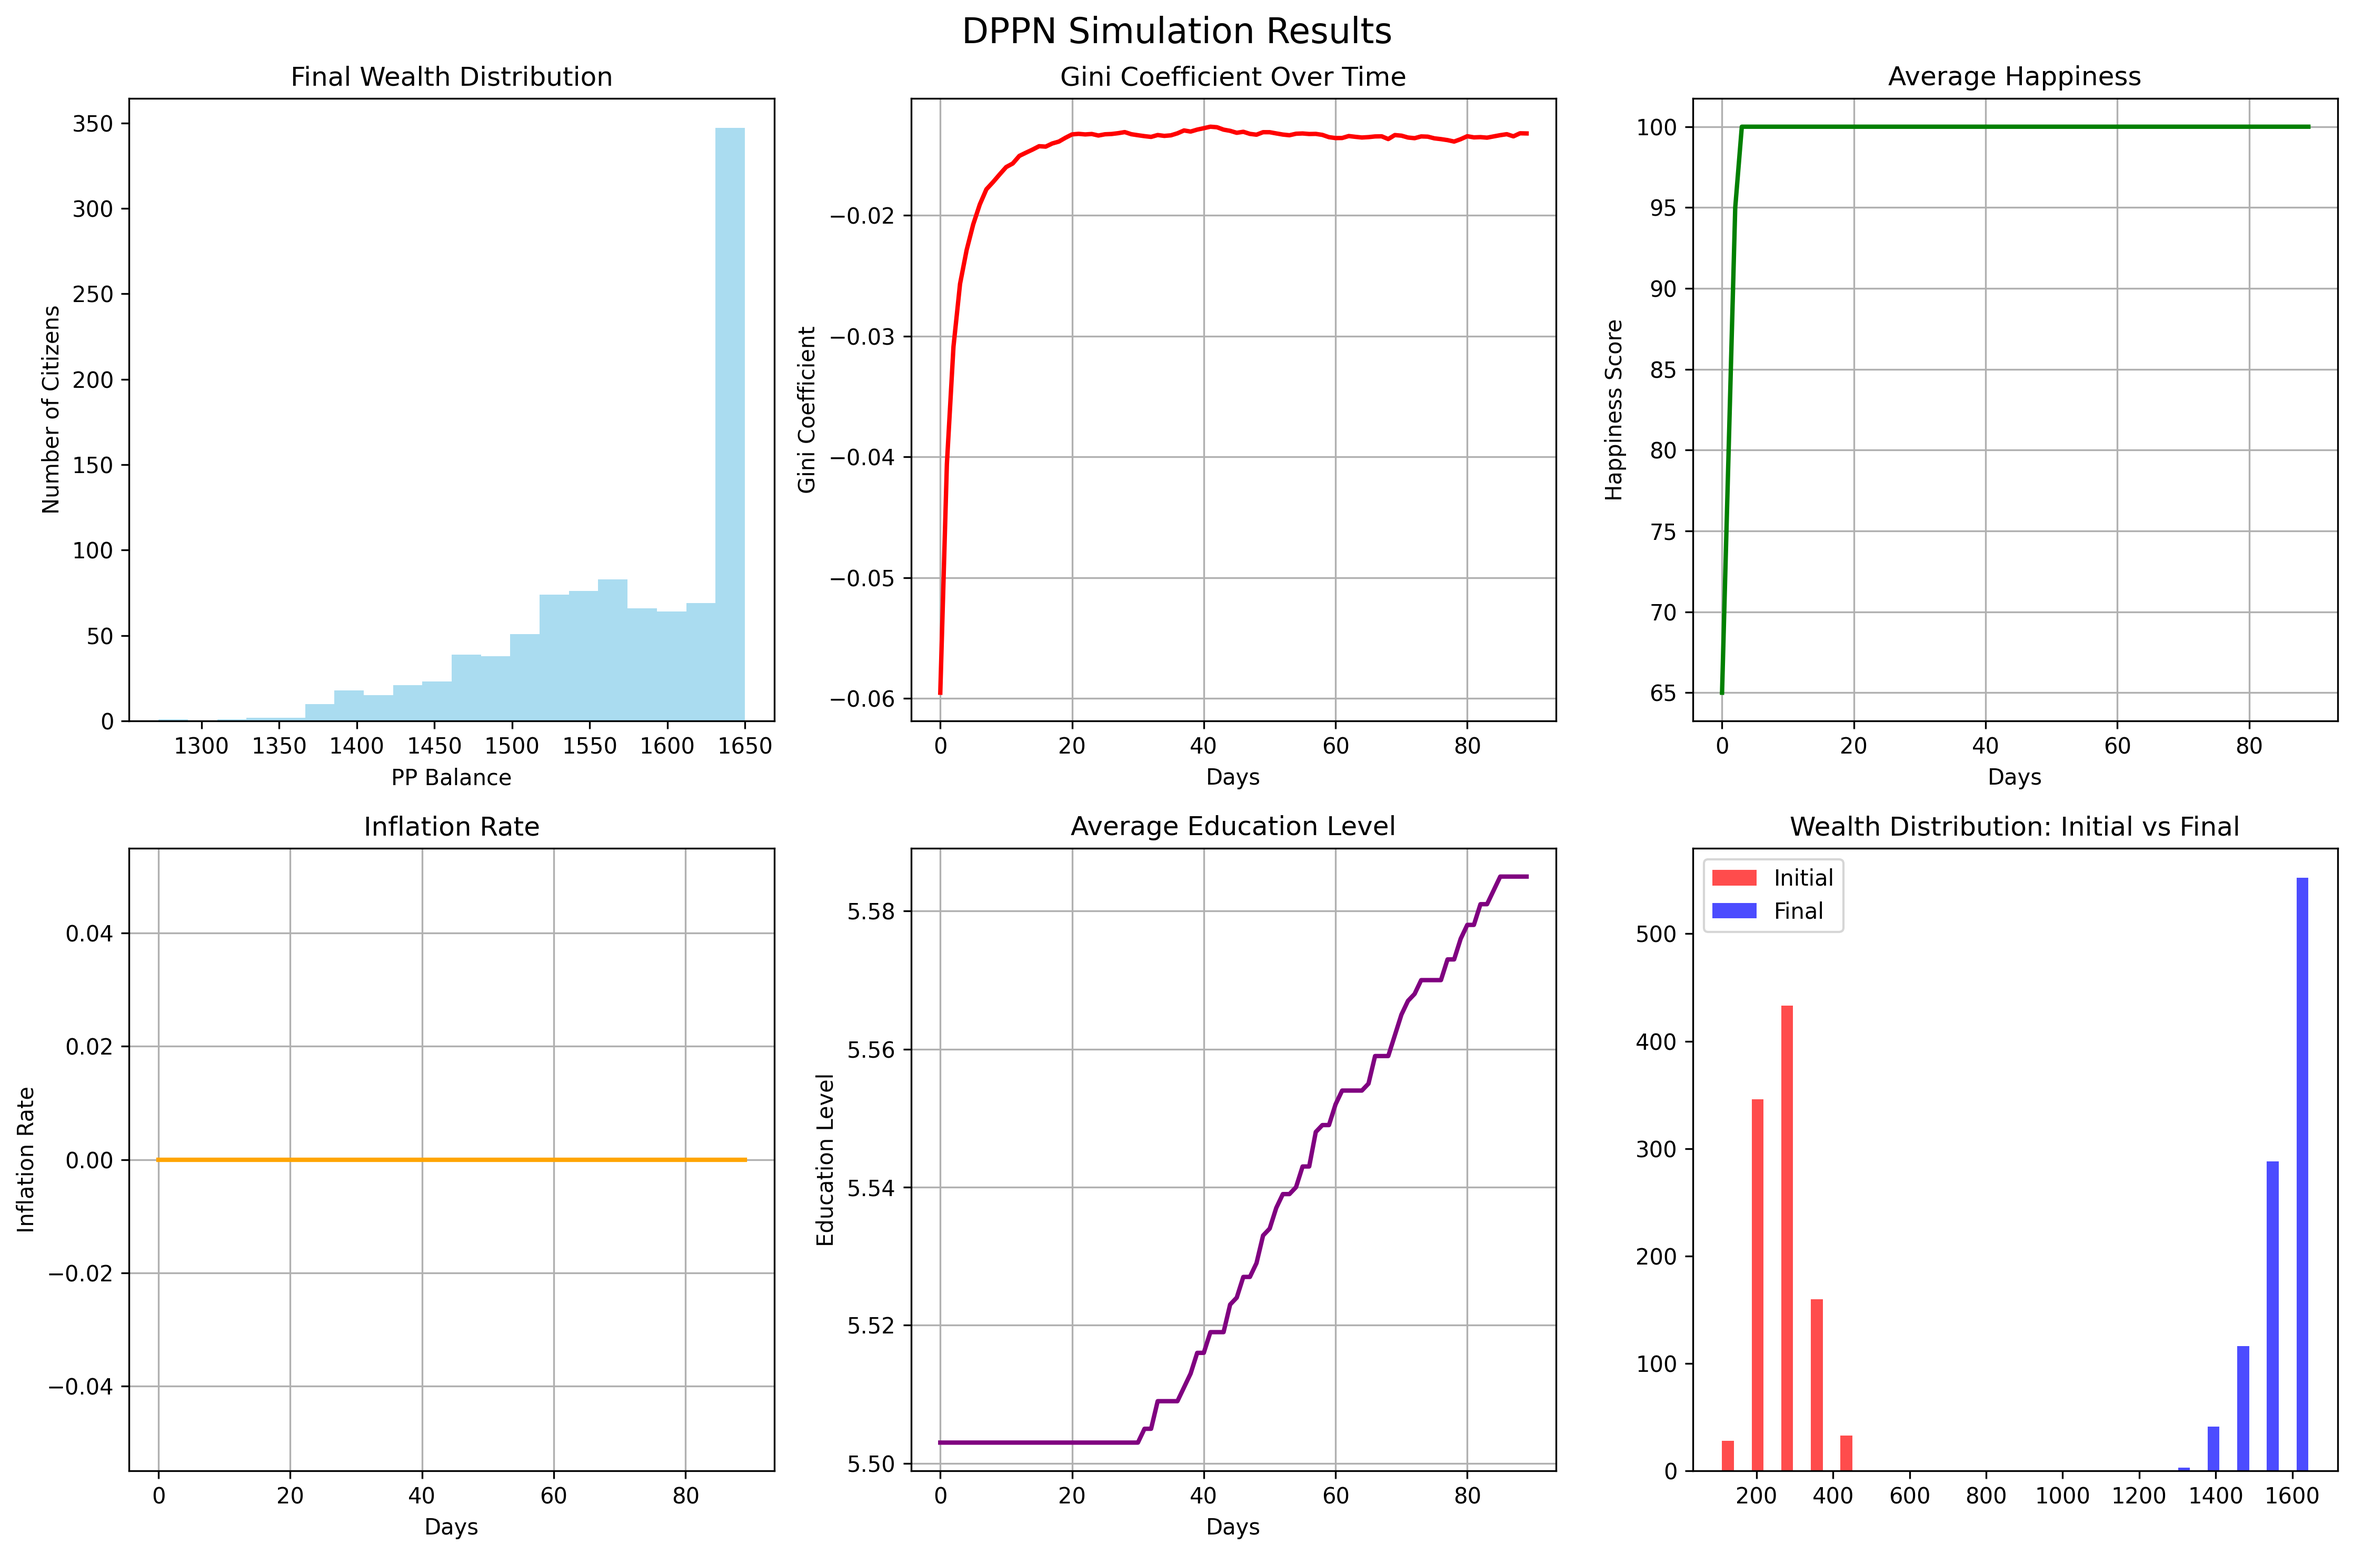
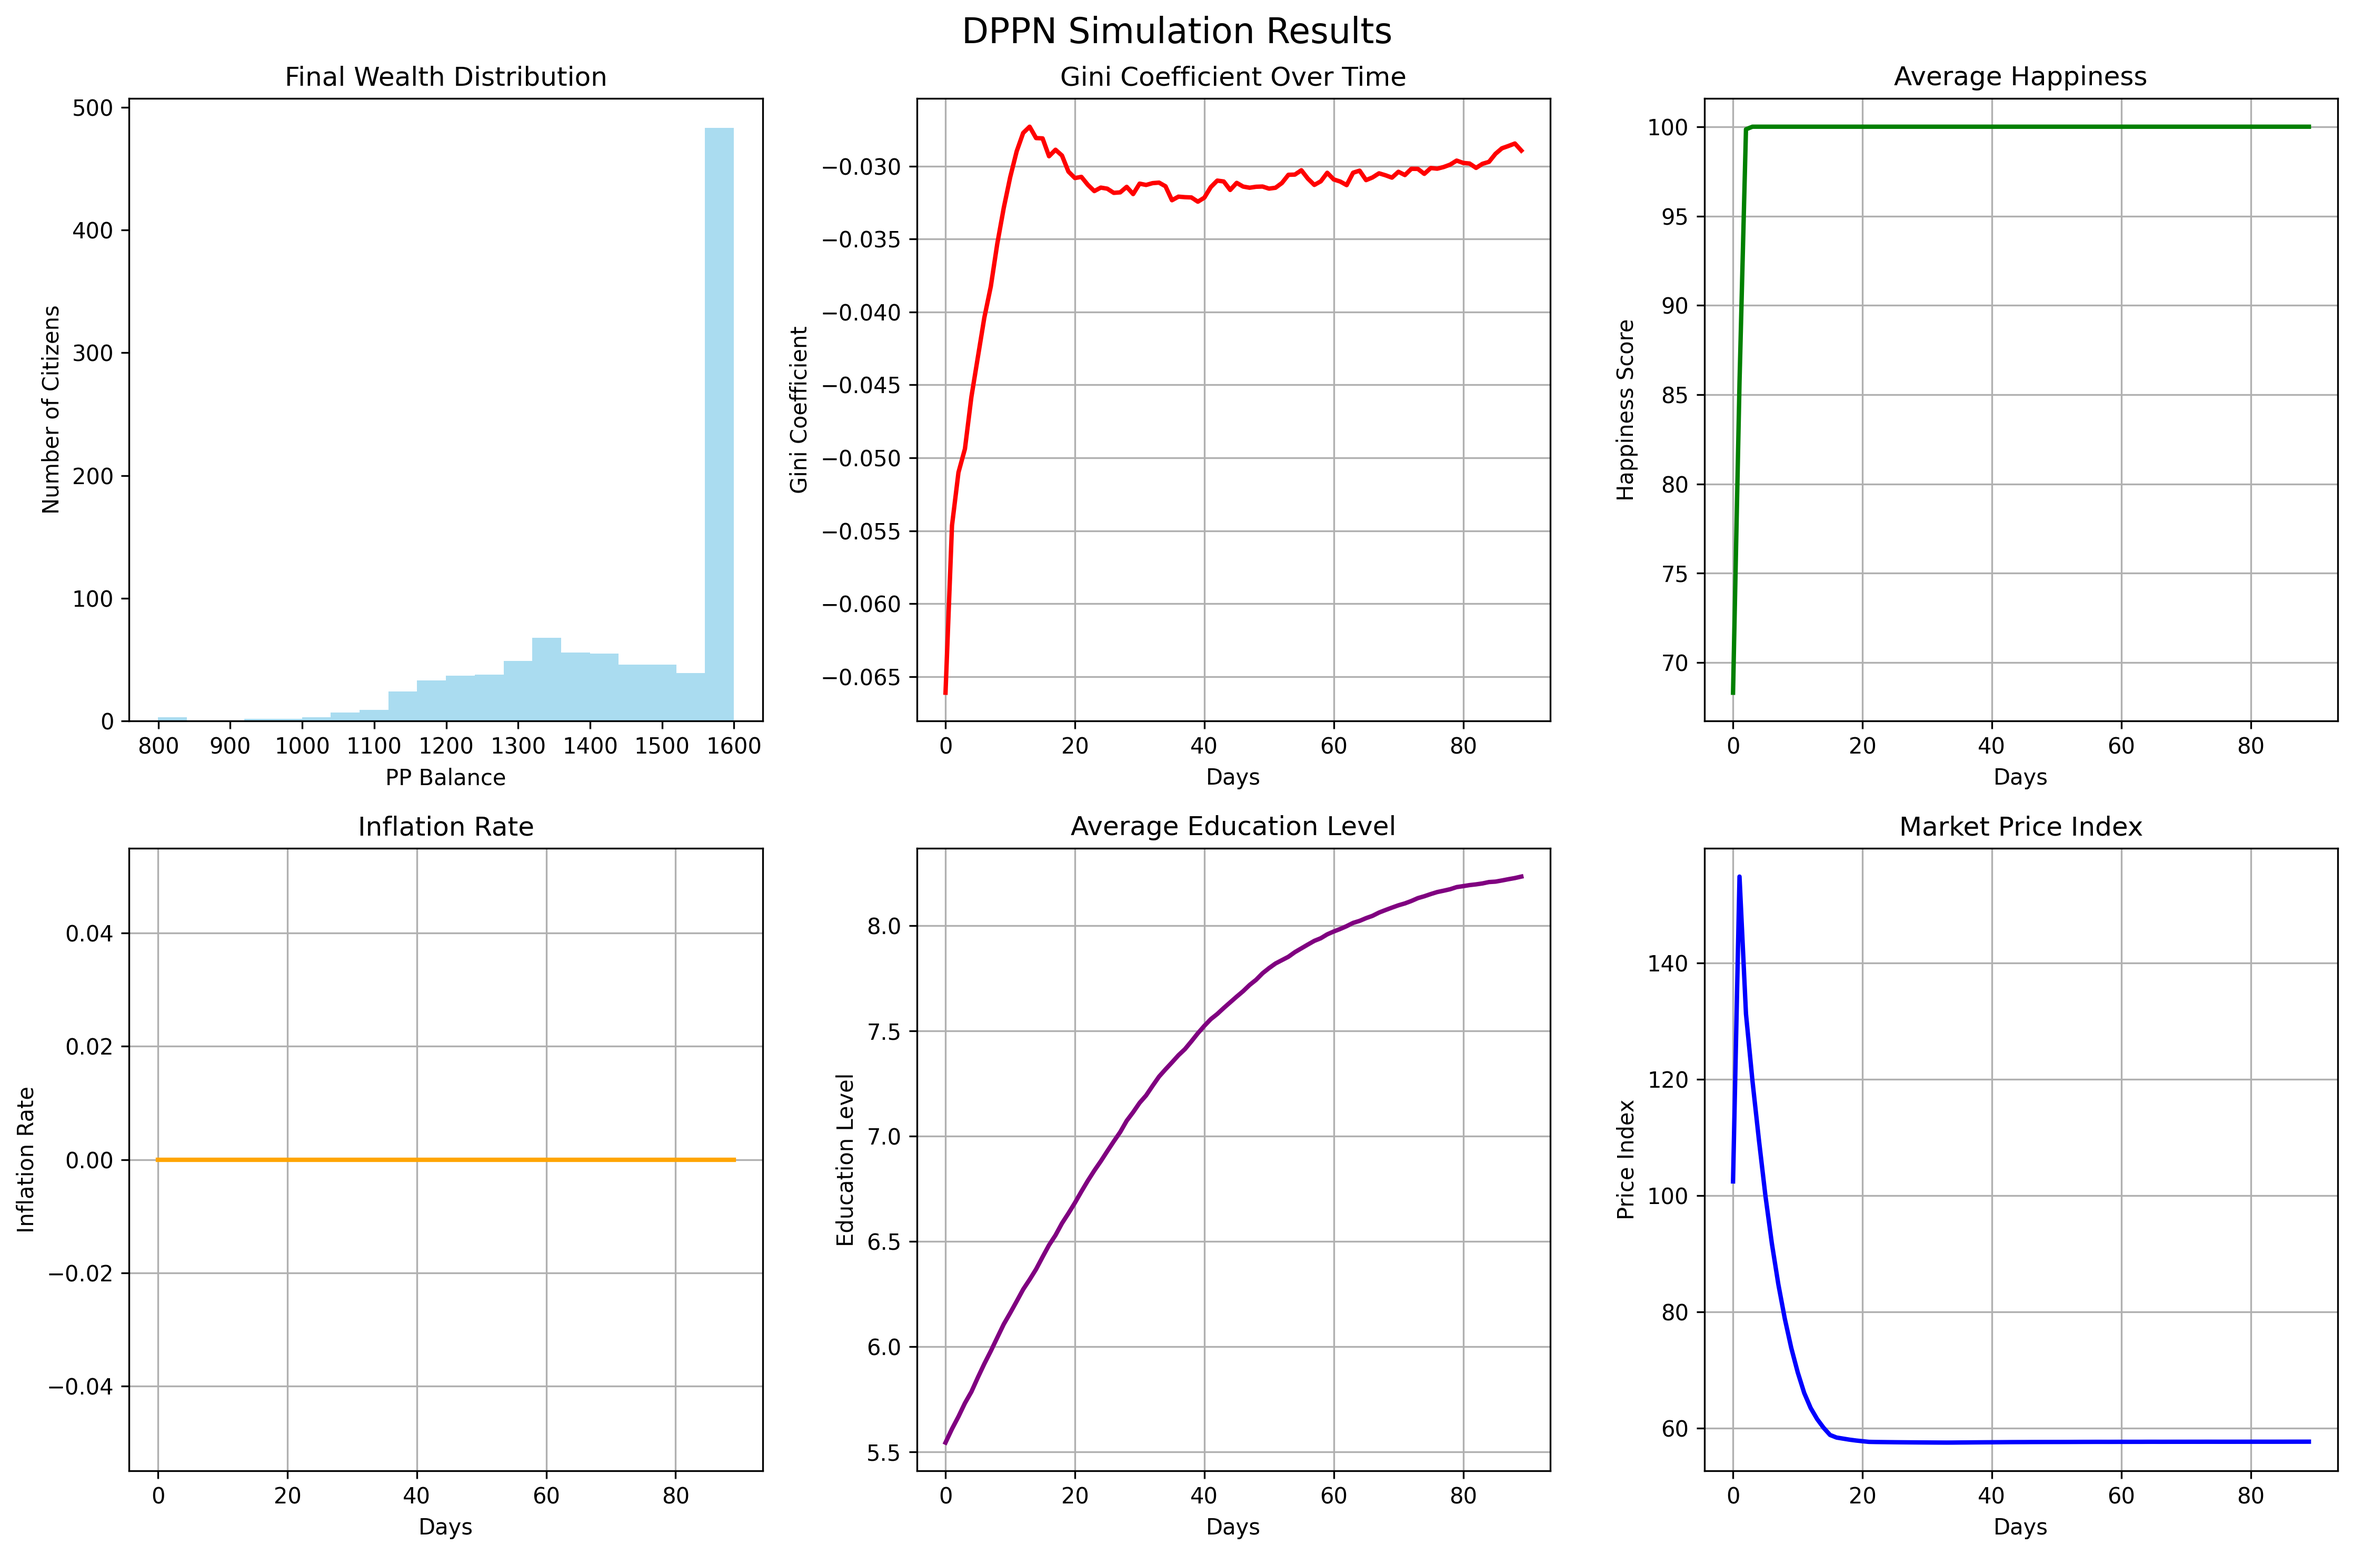
Change dashboard

diff --git a/visualization/dashboard.py b/visualization/dashboard.py
@@ -2,66 +2,112 @@ import matplotlib.pyplot as plt
 import seaborn as sns
 import numpy as np
 
-def create_dashboard(metrics, total_days, market_data=None):
+def create_dashboard(metrics, total_days):
     """Создание визуальной панели результатов"""
     fig, axes = plt.subplots(2, 3, figsize=(15, 10))
     fig.suptitle('DPPN Simulation Results', fontsize=16)
     
-    days = range(total_days)
+    days = range(min(total_days, len(metrics["average_happiness"])))
     
     # 1. Распределение богатства
-    last_day_balances = metrics["daily_pp_balances"][-1] if metrics["daily_pp_balances"] else []
-    axes[0, 0].hist(last_day_balances, bins=20, alpha=0.7, color='skyblue')
-    axes[0, 0].set_title('Final Wealth Distribution')
-    axes[0, 0].set_xlabel('PP Balance')
-    axes[0, 0].set_ylabel('Number of Citizens')
+    if metrics["daily_pp_balances"]:
+        last_day_balances = metrics["daily_pp_balances"][-1]
+        axes[0, 0].hist(last_day_balances, bins=20, alpha=0.7, color='skyblue')
+        axes[0, 0].set_title('Final Wealth Distribution')
+        axes[0, 0].set_xlabel('PP Balance')
+        axes[0, 0].set_ylabel('Number of Citizens')
     
     # 2. Коэффициент Джини over time
-    axes[0, 1].plot(days, metrics["gini_coefficients"], 'r-', linewidth=2)
-    axes[0, 1].set_title('Gini Coefficient Over Time')
-    axes[0, 1].set_xlabel('Days')
-    axes[0, 1].set_ylabel('Gini Coefficient')
-    axes[0, 1].grid(True)
+    if metrics["gini_coefficients"]:
+        axes[0, 1].plot(days, metrics["gini_coefficients"][:len(days)], 'r-', linewidth=2)
+        axes[0, 1].set_title('Gini Coefficient Over Time')
+        axes[0, 1].set_xlabel('Days')
+        axes[0, 1].set_ylabel('Gini Coefficient')
+        axes[0, 1].grid(True)
     
     # 3. Уровень счастья
-    axes[0, 2].plot(days, metrics["average_happiness"], 'g-', linewidth=2)
-    axes[0, 2].set_title('Average Happiness')
-    axes[0, 2].set_xlabel('Days')
-    axes[0, 2].set_ylabel('Happiness Score')
-    axes[0, 2].grid(True)
+    if metrics["average_happiness"]:
+        axes[0, 2].plot(days, metrics["average_happiness"][:len(days)], 'g-', linewidth=2)
+        axes[0, 2].set_title('Average Happiness')
+        axes[0, 2].set_xlabel('Days')
+        axes[0, 2].set_ylabel('Happiness Score')
+        axes[0, 2].grid(True)
     
     # 4. Инфляция
-    axes[1, 0].plot(days, metrics["inflation_rates"], 'orange', linewidth=2)
-    axes[1, 0].set_title('Inflation Rate')
-    axes[1, 0].set_xlabel('Days')
-    axes[1, 0].set_ylabel('Inflation Rate')
-    axes[1, 0].grid(True)
+    if metrics["inflation_rates"]:
+        axes[1, 0].plot(days, metrics["inflation_rates"][:len(days)], 'orange', linewidth=2)
+        axes[1, 0].set_title('Inflation Rate')
+        axes[1, 0].set_xlabel('Days')
+        axes[1, 0].set_ylabel('Inflation Rate')
+        axes[1, 0].grid(True)
     
     # 5. Образовательный уровень
-    axes[1, 1].plot(days, metrics["education_levels"], 'purple', linewidth=2)
-    axes[1, 1].set_title('Average Education Level')
-    axes[1, 1].set_xlabel('Days')
-    axes[1, 1].set_ylabel('Education Level')
-    axes[1, 1].grid(True)
+    if metrics["education_levels"]:
+        axes[1, 1].plot(days, metrics["education_levels"][:len(days)], 'purple', linewidth=2)
+        axes[1, 1].set_title('Average Education Level')
+        axes[1, 1].set_xlabel('Days')
+        axes[1, 1].set_ylabel('Education Level')
+        axes[1, 1].grid(True)
     
-    # 6. Сравнение начального и конечного распределения
-    if len(metrics["daily_pp_balances"]) > 1:
-        initial_balances = metrics["daily_pp_balances"][0]
-        final_balances = metrics["daily_pp_balances"][-1]
-        
-        axes[1, 2].hist([initial_balances, final_balances], bins=20, alpha=0.7, 
-                       label=['Initial', 'Final'], color=['red', 'blue'])
-        axes[1, 2].set_title('Wealth Distribution: Initial vs Final')
-        axes[1, 2].legend()
-    
-    # Новый график - индекс цен рынка
-    if market_data and 'price_index' in market_data:
-        axes[1, 2].plot(range(len(market_data['price_index'])), market_data['price_index'], 'b-', linewidth=2)
-        axes[1, 2].set_title('Market Price Index')
-        axes[1, 2].set_xlabel('Days')
-        axes[1, 2].set_ylabel('Price Index')
-        axes[1, 2].grid(True)
+    # 6. Индекс цен рынка
+    if metrics.get("market_data"):
+        price_index = [data.get('price_index', 100) for data in metrics["market_data"]]
+        if len(price_index) >= len(days):
+            axes[1, 2].plot(days, price_index[:len(days)], 'b-', linewidth=2)
+            axes[1, 2].set_title('Market Price Index')
+            axes[1, 2].set_xlabel('Days')
+            axes[1, 2].set_ylabel('Price Index')
+            axes[1, 2].grid(True)
     
     plt.tight_layout()
     plt.savefig('dppn_simulation_results.png', dpi=300, bbox_inches='tight')
+    plt.show()
+
+def create_market_dashboard(metrics):
+    """Создание отдельной панели для данных рынка"""
+    if not metrics.get("market_data"):
+        return
+        
+    market_data = metrics["market_data"]
+    days = range(len(market_data))
+    
+    fig, axes = plt.subplots(2, 2, figsize=(12, 8))
+    fig.suptitle('DPPN Market Analysis', fontsize=16)
+    
+    # 1. Индекс цен
+    price_index = [data.get('price_index', 100) for data in market_data]
+    axes[0, 0].plot(days, price_index, 'b-', linewidth=2)
+    axes[0, 0].set_title('Market Price Index')
+    axes[0, 0].set_xlabel('Days')
+    axes[0, 0].grid(True)
+    
+    # 2. Объем транзакций
+    transaction_volume = [data.get('transaction_volume', 0) for data in market_data]
+    axes[0, 1].plot(days, transaction_volume, 'g-', linewidth=2)
+    axes[0, 1].set_title('Daily Transaction Volume')
+    axes[0, 1].set_xlabel('Days')
+    axes[0, 1].grid(True)
+    
+    # 3. Спрос по категориям (последний день)
+    if market_data and 'categories' in market_data[-1]:
+        categories = market_data[-1]['categories']
+        category_names = list(categories.keys())
+        demands = [categories[cat]['total_demand'] for cat in category_names]
+        
+        axes[1, 0].bar(category_names, demands, alpha=0.7)
+        axes[1, 0].set_title('Demand by Category (Final Day)')
+        axes[1, 0].tick_params(axis='x', rotation=45)
+    
+    # 4. Цены по категориям (последний день)
+    if market_data and 'categories' in market_data[-1]:
+        categories = market_data[-1]['categories']
+        category_names = list(categories.keys())
+        prices = [categories[cat]['average_price'] for cat in category_names]
+        
+        axes[1, 1].bar(category_names, prices, alpha=0.7, color='orange')
+        axes[1, 1].set_title('Average Prices by Category (Final Day)')
+        axes[1, 1].tick_params(axis='x', rotation=45)
+    
+    plt.tight_layout()
+    plt.savefig('dppn_market_analysis.png', dpi=300, bbox_inches='tight')
     plt.show()
